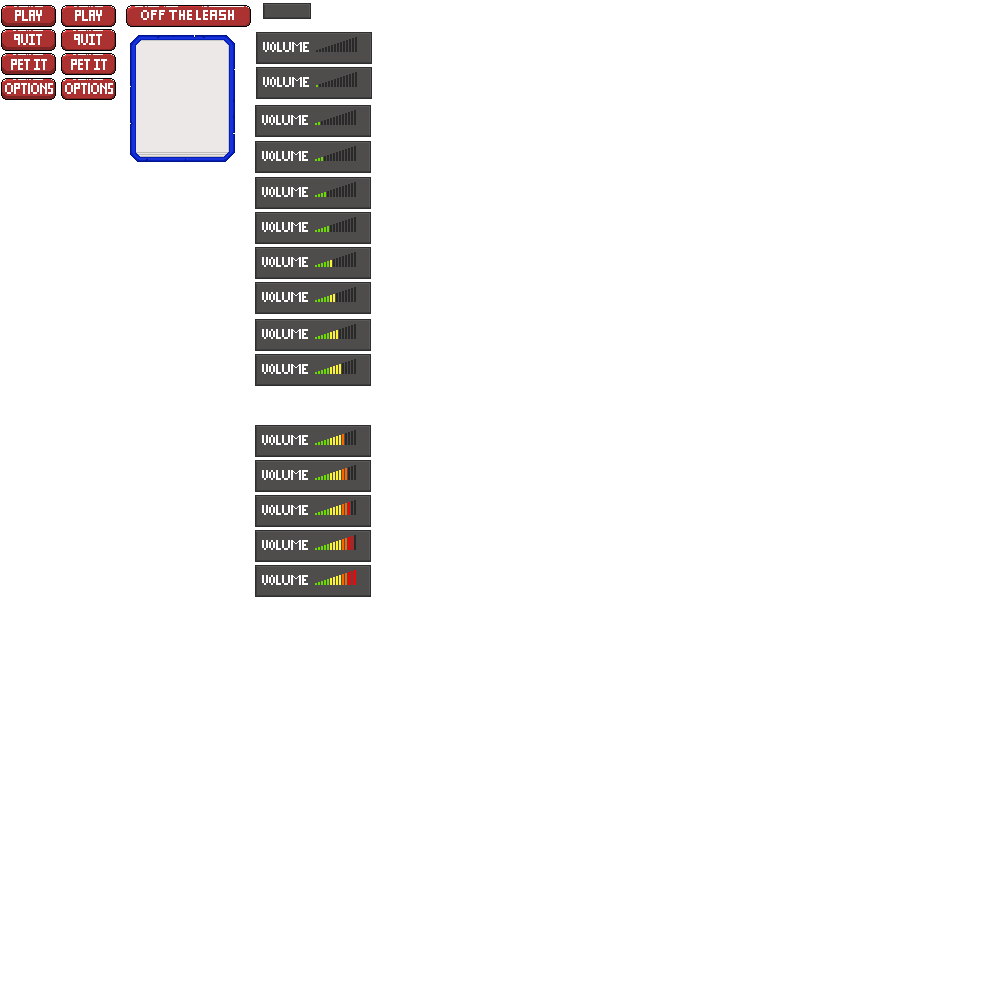
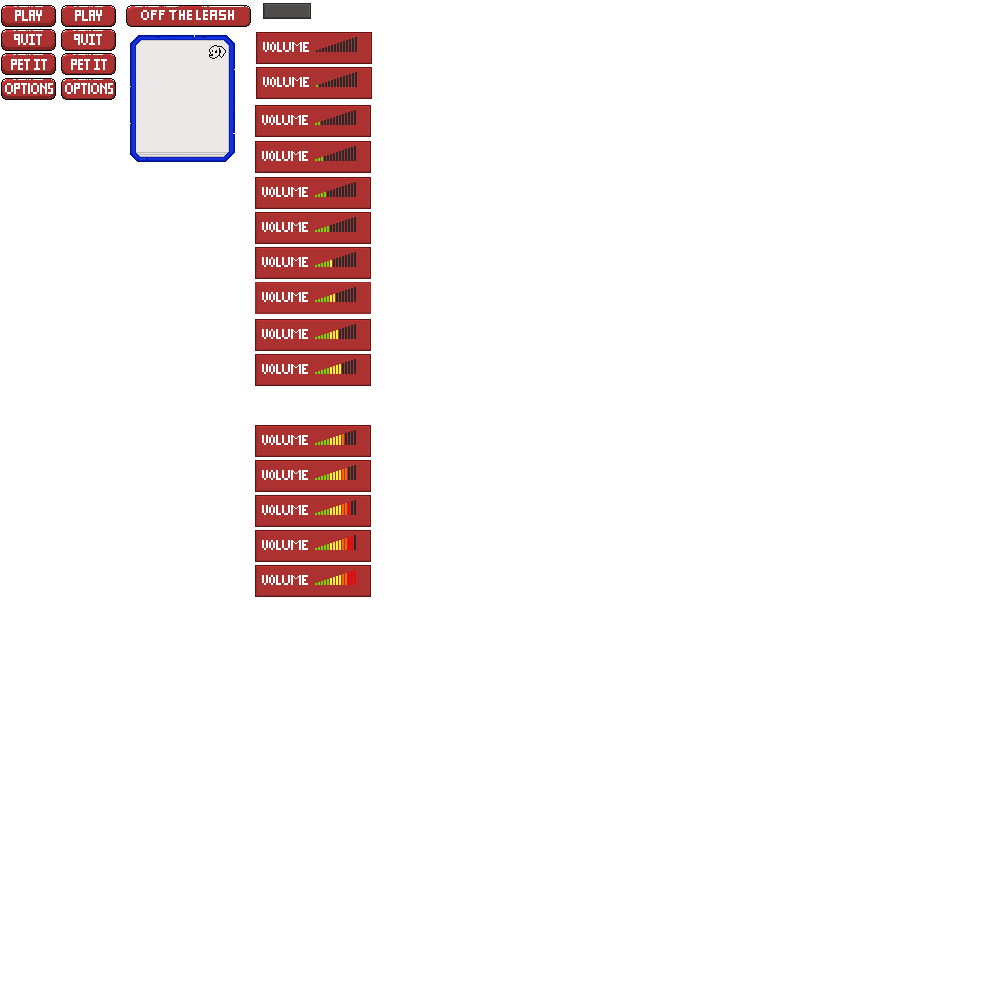
Added image ui element

Changed region(s): [[0.248, 0.031, 0.372, 0.62]]

diff --git a/src/LostAndFound.Core/Screens/MainMenuScreen.cs b/src/LostAndFound.Core/Screens/MainMenuScreen.cs
@@ -37,14 +37,27 @@ namespace LostAndFound.Core.Screens
             _transitionManager.Load();
 
             var spriteMap = _spriteMapLoader.GetContent("Assets/UI/ui.json");
+
+            var titleSprite = spriteMap.CreateSpriteFromRegion("tittle");
             var upButton = spriteMap.CreateSpriteFromRegion("play up");
             var downButton = spriteMap.CreateSpriteFromRegion("play down");
             var quitUp = spriteMap.CreateSpriteFromRegion("quit up");
             var quitDown = spriteMap.CreateSpriteFromRegion("quit down");
+            var optionsUp = spriteMap.CreateSpriteFromRegion("options up");
+            var optionsDown = spriteMap.CreateSpriteFromRegion("options down");
+            var petItUp = spriteMap.CreateSpriteFromRegion("pet it up");
+            var petItDown = spriteMap.CreateSpriteFromRegion("pet it down");
 
             var mainPanel = new Panel(_renderManager);
-            var playButton = new Button(upButton, downButton, _windowConfiguration.Center, _uiScale, Origin.Center);
-            var quitButton = new Button(quitUp, quitDown, _windowConfiguration.Center + new Vector2(0, 100), _uiScale,Origin.Center);
+
+            var titleImage = new Image(titleSprite, _windowConfiguration.Center - new Vector2(0, 100), _uiScale,
+                Origin.Center);
+            var playButton = new Button(upButton, downButton, titleImage.Bottom + new Vector2(0, 30),
+                _uiScale, Origin.Center);
+            var optionsButton = new Button(optionsUp, optionsDown, playButton.Bottom, _uiScale, Origin.Center);
+            var quitButton = new Button(quitUp, quitDown, optionsButton.Bottom, _uiScale, Origin.Center);
+
+            var petItButton = new Button(petItUp, petItDown, optionsButton.Bottom, _uiScale, Origin.Center);
 
             playButton.Click = () =>
             {
@@ -53,12 +66,11 @@ namespace LostAndFound.Core.Screens
                 _transitionManager.FadeOutEnded = () => { RequestScreenChange?.Invoke(ScreenType.GameScreen); };
             };
 
-            quitButton.Click = () =>
-            {
-                Game1.Quit();
-            };
+            quitButton.Click = () => { Game1.Quit(); };
 
+            mainPanel.AddElement(titleImage);
             mainPanel.AddElement(playButton);
+            mainPanel.AddElement(optionsButton);
             mainPanel.AddElement(quitButton);
 
             _mainMenuPanels.Add(mainPanel);
@@ -83,7 +95,7 @@ namespace LostAndFound.Core.Screens
             {
                 panel.Draw();
             }
-            
+
             _transitionManager.Draw();
             _renderManager.SpriteBatch.End();
         }

diff --git a/src/LostAndFound.Core/UI/Image.cs b/src/LostAndFound.Core/UI/Image.cs
@@ -1,0 +1,26 @@
+using LostAndFound.Core.Graphics;
+using Microsoft.Xna.Framework;
+using Microsoft.Xna.Framework.Graphics;
+
+namespace LostAndFound.Core.UI
+{
+    public class Image : Element
+    {
+        private readonly Sprite _image;
+
+        public Image(Sprite image, Vector2 position, float scale, Origin origin) : base(position, scale, origin)
+        {
+            _image = image;
+        }
+
+        public override int Width => _image.Width;
+        public override int Height => _image.Height;
+
+        protected override void InternalUpdate(GameTime gameTime)
+        {
+        }
+
+        protected override void InternalDraw(SpriteBatch spriteBatch) =>
+            spriteBatch.Draw(_image.Texture, Bounds, _image.Source, Color.White);
+    }
+}

diff --git a/src/LostAndFound.Core/UI/Element.cs b/src/LostAndFound.Core/UI/Element.cs
@@ -19,6 +19,15 @@ namespace LostAndFound.Core.UI
                     (int) (Height * Scale));
             }
         }
+        
+        public Vector2 Bottom
+        {
+            get
+            {
+                var (xOffset, yOffset) = GetOriginOffset();
+                return new Vector2(Bounds.Left + xOffset, Bounds.Bottom + yOffset);
+            }
+        }
 
         public float Scale { get; set; }
         public Vector2 Position { get; set; }
